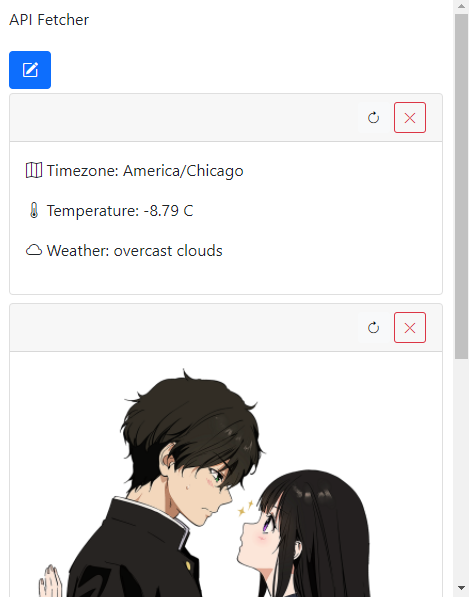
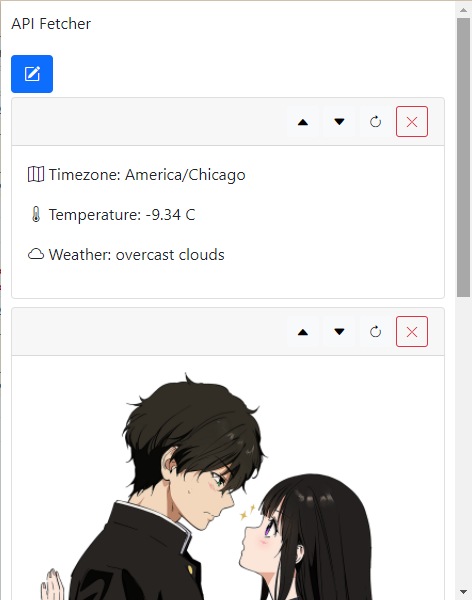
updated order feature

diff --git a/js/popup.js b/js/popup.js
@@ -100,15 +100,13 @@ $(function() {
   function addCard(data) {
     const id = `id-${Date.now()}`
     data.html = data.html.replace(/id="(.+)"/g, `id="${id}-$1"`) // id="abc" -> id="id-123123-abc"
+    data.order = $('#card-container').children().length
     updateStorage('card_info', {[id]: data})
     loadCard(id, data)
   }
 
   function updateCard(id, data) {
-    if (!data.html || !data.html.replaceAll(' ', '')) {
-      alert("html field is empty")
-      return
-    }
+    data.order = $(`#${id}`).index()
     updateStorage('card_info', {[id]: data})
     loadCard(id, data, $(`#${id}`))
   }
@@ -179,10 +177,18 @@ $(function() {
       $('#btn-edit').show()
       $('#btn-cancel-edit').show()
       $('#btn-add').hide()
+      $('button[id$="-up"]').hide()
+      $('button[id$="-down"]').hide()
+      $('button[id$="-refresh"]').hide()
+      $('button[id$="-remove"]').hide()
     } else {
       $('#btn-edit').hide()
       $('#btn-cancel-edit').hide()
       $('#btn-add').show()
+      $('button[id$="-up"]').show()
+      $('button[id$="-down"]').show()
+      $('button[id$="-refresh"]').show()
+      $('button[id$="-remove"]').show()
     }
   }
 
@@ -216,7 +222,6 @@ $(function() {
       'url': '', 
       'html': '<p>empty</p>', 
       'options': {},
-      'order': $('#card-container').children().length,
     }
     $(this).serializeArray().forEach(x => {
       if (x.value) {
@@ -249,8 +254,12 @@ $(function() {
     var arr = Object.entries(data)
     arr.sort((a, b) => a[1].order - b[1].order)
     console.log(arr)
-    for (const [id, v] of arr) {
-      loadCard(id, v)
+    for (let i = 0; i < arr.length; i++) {
+      const [id, d] = arr[i]
+      loadCard(id, d)
+      data[id].order = i
     }
+    // make sure order are contiguous for all data
+    chrome.storage.sync.set({'card_info': data}, () => {})
   })
 })

diff --git a/html/main.html b/html/main.html
@@ -128,7 +128,7 @@
               <i class="bi bi-plus-lg"></i>
             </button>
             <button id="btn-edit" type="submit" class="btn btn-outline-info" style="display: none;">
-              <i class="bi bi-pencil-square"></i>
+              <i class="bi bi-check-lg"></i>
             </button>
             <button id="btn-cancel-edit" type="button" class="btn btn-outline-danger" style="display: none;">
               <i class="bi bi-x-lg"></i>

diff --git a/README.md b/README.md
@@ -148,7 +148,7 @@ We are using Bootstrap 5 css and icons. you can insert html with Bootstrap 5 css
      ```html
      <img width="400" src="https://pximg.rainchan.win/img?img_id={contents[0].illust_id}">
      ```
-   <div align="center"><img src="demo/images/image.png"></div>
+   <div align="center"><img src="demo/images/pixiv_img.png"></div>
    </br>
 
 
